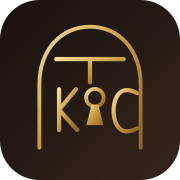
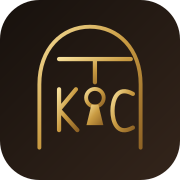
Refine TKC crest alignment

diff --git a/sw.js b/sw.js
@@ -1,7 +1,7 @@
-const CACHE='key-collective-6c3-brand-16.54.2';
+const CACHE='key-collective-6c3-brand-16.54.3';
 const APP_SHELL=['./','./index.html','./tokens.css?v=16.21','./app.css?v=16.49.0','./app.js?v=16.49.0','./config.js','./router.js','./store.js','./weather.js','./controllers.js','./pages.js','./news.js','./sprint3.js','./sprint4.js','./sprint5.js','./sprint6a.js','./sprint6b.js','./sprint6b1.js','./sprint6b1final.js','./sprint6b2.js','./sprint6b3.js','./sprint6b4.js','./sprint6b5.js','./sprint6b6.js','./sprint6b7.js','./sprint6b8.js?v=16.43.7','./sprint6b9.js','./sprint6b10.js','./sprint6b11.js','./sprint6b12.js','./sprint6b13.js','./sprint6b13r2.js','./sprint6b14.js','./sprint6b15.js','./sprint6b16.js','./sprint6b17.js','./sprint6b18.js?v=16.43.7','./sprint6b19.js','./sprint6b22.js?v=16.43.7','./sprint6b23.js','./sprint6b24.js','./sprint6b25.js','./sprint6b26.js?v=16.43.7','./sprint6b43.js?v=16.44.7','./sprint6b44.js?v=16.44.9','./sprint6b45.js?v=16.45.1','./sprint6b46.js?v=16.46.1','./sprint6b47.js?v=16.48.2','./sprint6b48.js?v=16.48.2','./sprint6b49.js?v=16.49.0','./google-calendar.js','./memo-db.js','./photo-db.js','./logo.png','./profile.jpg','./manifest.webmanifest','./icon-192.png','./icon-512.png','./apple-touch-icon.png'];
 APP_SHELL.push('./app.css?v=16.53.4','./app.js?v=16.53.4','./sprint6c1.js?v=16.52.4','./sprint6c3.js?v=16.53.4','./assets/companion/kiki.png','./assets/companion/lulu.png','./assets/companion/kiki-busybody.png','./assets/companion/kiki-dance.png','./assets/companion/lulu-mommy.png','./assets/companion/lulu-flowers.png');
-APP_SHELL.push('./app.css?v=16.54.2','./app.js?v=16.54.2','./manifest.webmanifest?v=16.54.2','./assets/key-collective-crest.svg','./favicon-48.png','./icon-maskable-512.png');
+APP_SHELL.push('./app.css?v=16.54.3','./app.js?v=16.54.3','./manifest.webmanifest?v=16.54.3','./assets/key-collective-crest.svg','./favicon-48.png','./icon-maskable-512.png');
 self.addEventListener('install',event=>event.waitUntil(caches.open(CACHE).then(cache=>cache.addAll(APP_SHELL)).then(()=>self.skipWaiting())));
 self.addEventListener('activate',event=>event.waitUntil(caches.keys().then(keys=>Promise.all(keys.filter(key=>key!==CACHE).map(key=>caches.delete(key)))).then(()=>self.clients.claim())));
 self.addEventListener('message',event=>{if(event.data?.type==='SKIP_WAITING')self.skipWaiting()});

diff --git a/index.html b/index.html
@@ -7,8 +7,8 @@
   <meta name="apple-mobile-web-app-status-bar-style" content="black-translucent">
   <meta name="application-name" content="The Key Collective OS">
   <meta name="format-detection" content="telephone=no"><title>The Key Collective OS</title>
-<link rel="manifest" href="manifest.webmanifest?v=16.54.2"><link rel="icon" type="image/png" sizes="48x48" href="favicon-48.png?v=16.54.2"><link rel="apple-touch-icon" sizes="180x180" href="apple-touch-icon.png?v=16.54.2">
-<link rel="stylesheet" href="tokens.css?v=16.21"><link rel="stylesheet" href="app.css?v=16.54.2">
+<link rel="manifest" href="manifest.webmanifest?v=16.54.3"><link rel="icon" type="image/png" sizes="48x48" href="favicon-48.png?v=16.54.3"><link rel="apple-touch-icon" sizes="180x180" href="apple-touch-icon.png?v=16.54.3">
+<link rel="stylesheet" href="tokens.css?v=16.21"><link rel="stylesheet" href="app.css?v=16.54.3">
 </head><body>
 <div id="appShell" class="app-shell">
   <div id="menuScrim" class="menu-scrim" aria-hidden="true"></div>
@@ -32,5 +32,5 @@
 </div>
 <div id="offlineBanner" class="offline-banner">Offline mode · saved features remain available</div>
 <div id="toast" class="toast" role="status"></div>
-<script type="module" src="app.js?v=16.54.2"></script>
+<script type="module" src="app.js?v=16.54.3"></script>
 </body></html>
